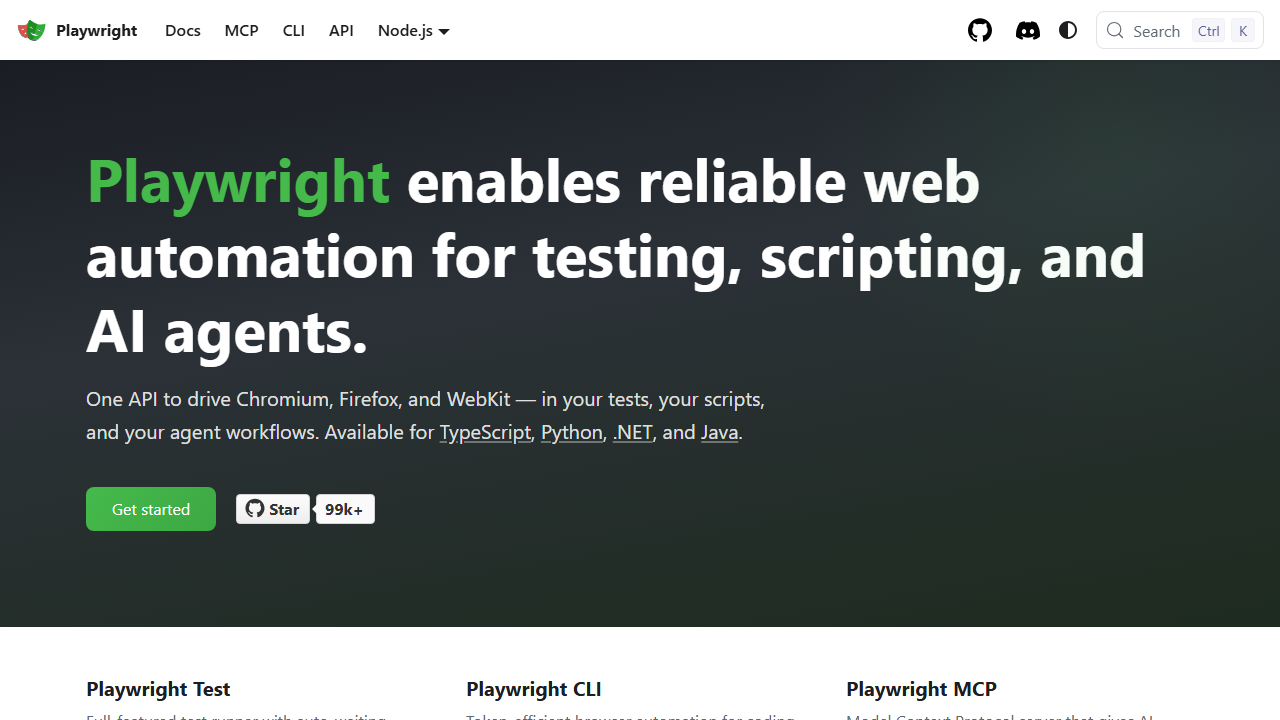
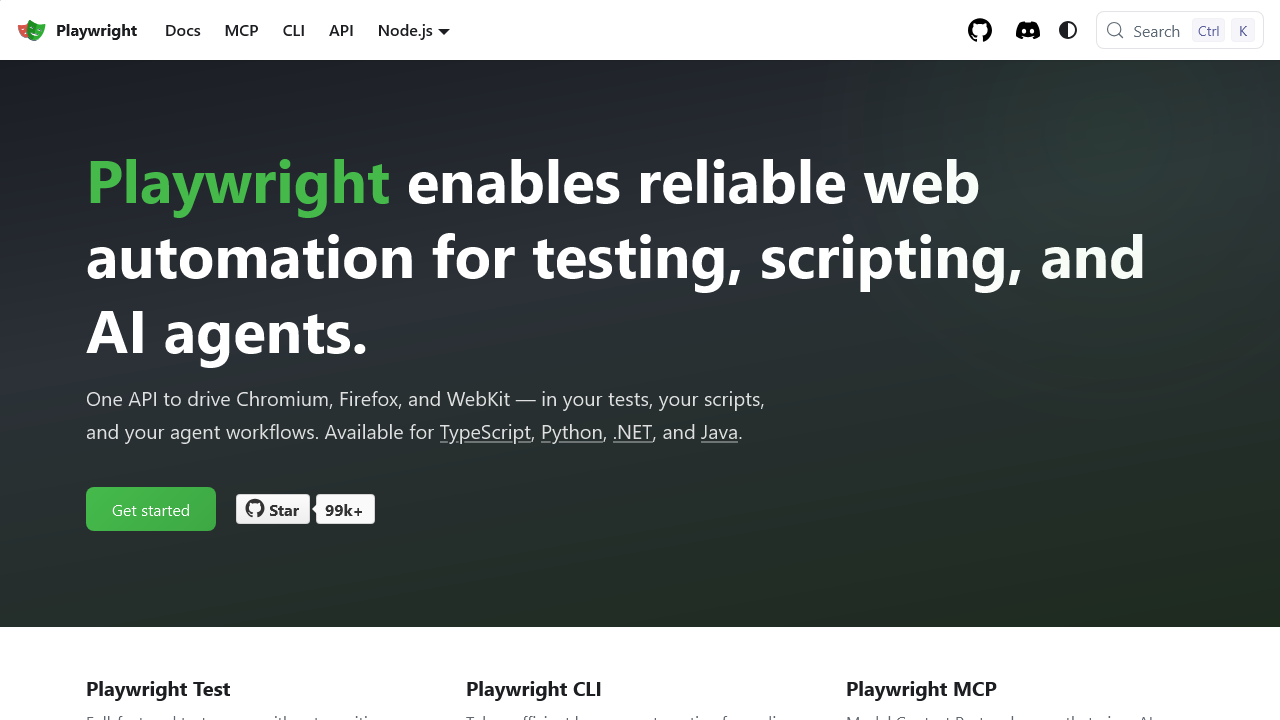
Первый скрипт

diff --git a/one_day.py b/one_day.py
@@ -23,19 +23,45 @@
 # результат нового запуска: "Заголовок: Тест печати онлайн – развивай скорость и точность с Blind Typing"
 # код выполнен без ошибок.
 
+#ФИО: Соколов Антон Сергеевич
+#Дата: 2026-11-11
+#Время: 23:52
+#Описание: Код открывает сайт playwright.dev в браузере Chrome, выводит название в консоль и закрывает браузер
+#Я скопировал пример из раздела "начало работы - библиотека" и запустил его
+
 """Для современного проекта используется асинхронный API"""
 
-import asyncio # импорт для запуска
-from playwright.async_api import async_playwright # подключаем асинхронную версию
+#import asyncio # импорт для запуска
+#from playwright.async_api import async_playwright # подключаем асинхронную версию
 
-async def main(): # создаем функцию и говорим Python что это на подумать, загрузить, просмореть(выполнять асинхронно)
-    async with async_playwright() as p: # запуск Playwright
-        browser = await p.chromium.launch() # запуск праузера 
-        page = await browser.new_page() # открытие новой вкладки
-        await page.goto("https://playwright.dev") # переход на сайт
-        print(await page.title()) # заголовок страницы
-        await browser.close() # закрываем браузер
+#async def main(): # создаем функцию и говорим Python что это на подумать, загрузить, просмореть(выполнять асинхронно)
+    #async with async_playwright() as p: # запуск Playwright
+        #browser = await p.chromium.launch() # запуск праузера 
+        #page = await browser.new_page() # открытие новой вкладки
+        #await page.goto("https://playwright.dev") # переход на сайт
+        #print(await page.title()) # заголовок страницы
+        #await browser.close() # закрываем браузер
 
-asyncio.run(main())
+#asyncio.run(main())
 # результат запуска: "Fast and reliable end-to-end testing for modern web apps | Playwright"
+# код выполнен без ошибок
+
+#ФИО: Соколов Антон Сергеевич
+#Дата: 2026-11-11
+#Время: 23:57
+#Описание: Код открывает нужную ссылку, запускает браузер(по желанию можно указать любой), делает скрин и закрывает браузер
+#Я скопировал пример из раздела "начало работы - библиотека(Первый скрипт)" и запустил его
+
+"""Первый скрипт"""
+
+from playwright.sync_api import sync_playwright # библиотека для управление браузером
+
+with sync_playwright() as p: # Запуск Playwright.
+    browser = p.webkit.launch() # запуск браузера safari
+    page = browser.new_page() # В браузере открывается новая пустая вкладка
+    page.goto("https://playwright.dev/") # переходит по указанной ссылке
+    page.screenshot(path="example.png") # делает снимок и сохроняет в папку
+    browser.close() # закрывает браузер 
+
+# результат запуска: после запуска программы открывается браузер и идёт переход по указанной ссылке, делает скрин, сохроняет скрин в папку и закрывает браюзер
 # код выполнен без ошибок
